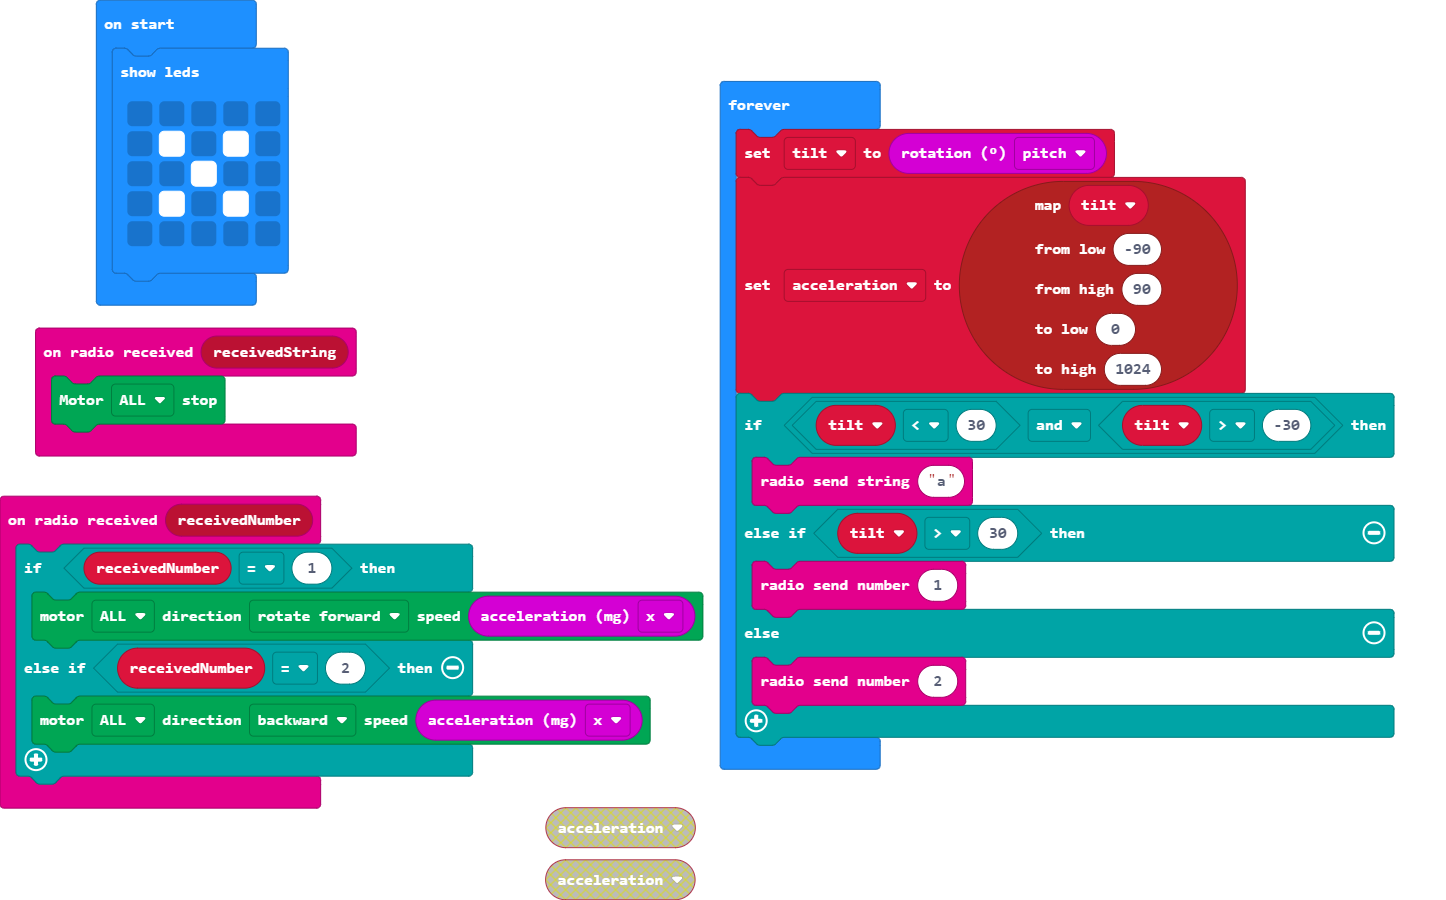
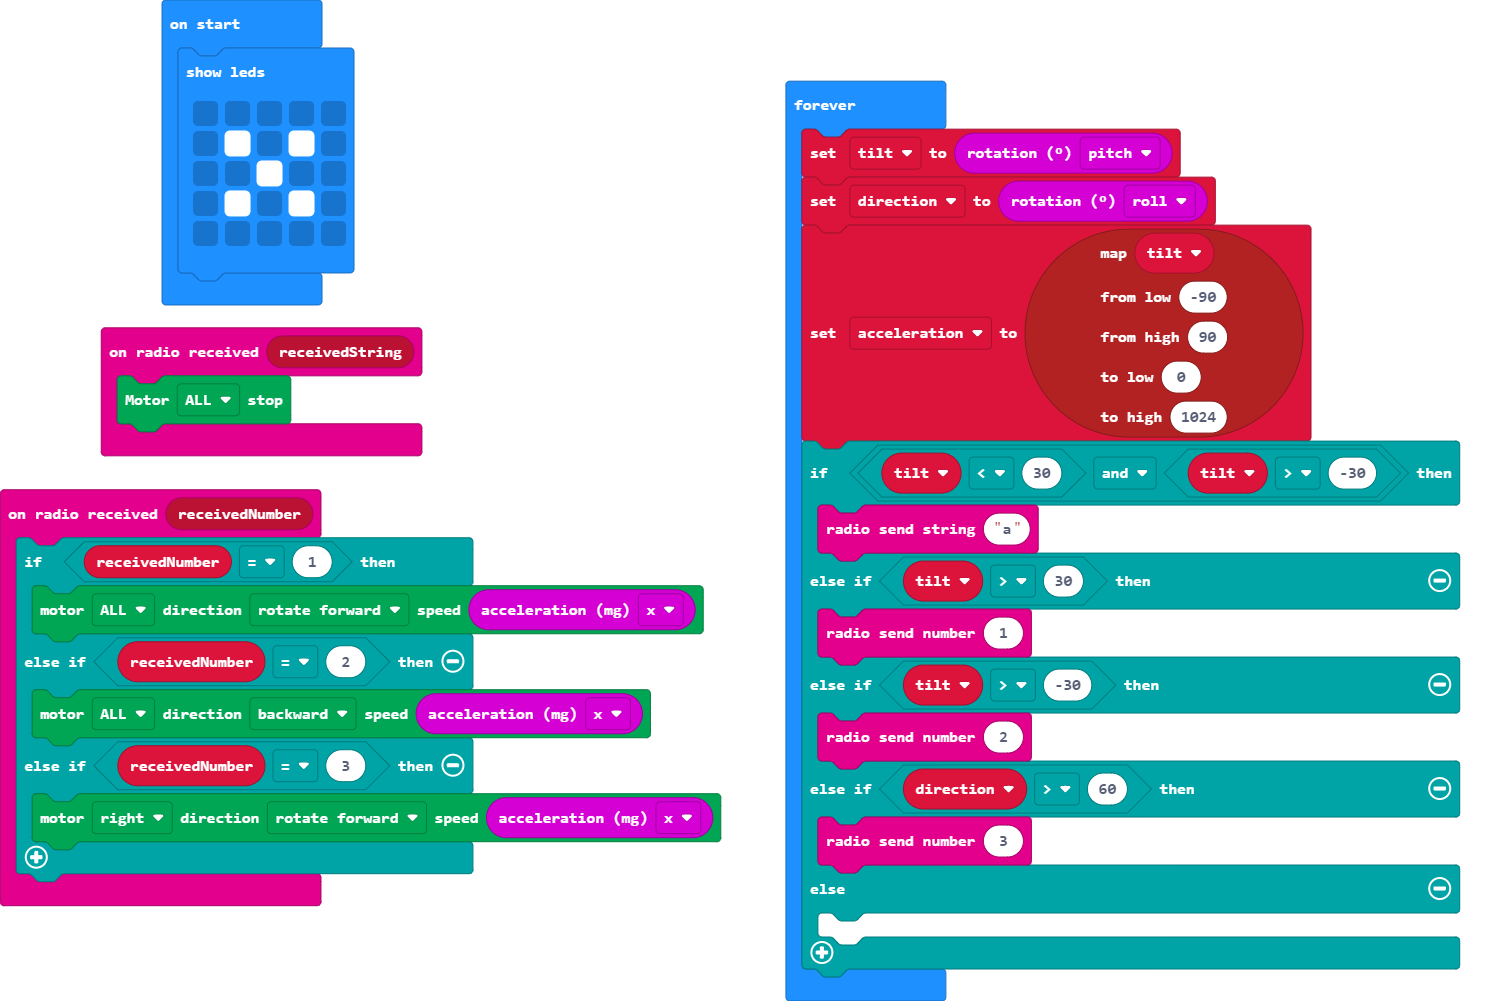
Update main.blocks, main.ts

diff --git a/main.ts b/main.ts
@@ -3,12 +3,15 @@ radio.onReceivedNumber(function (receivedNumber) {
         DFRobotMaqueenPlus.mototRun(Motors.ALL, Dir.CW, input.acceleration(Dimension.X))
     } else if (receivedNumber == 2) {
         DFRobotMaqueenPlus.mototRun(Motors.ALL, Dir.CCW, input.acceleration(Dimension.X))
+    } else if (receivedNumber == 3) {
+        DFRobotMaqueenPlus.mototRun(Motors.M2, Dir.CW, input.acceleration(Dimension.X))
     }
 })
 radio.onReceivedString(function (receivedString) {
     DFRobotMaqueenPlus.mototStop(Motors.ALL)
 })
 let acceleration = 0
+let direction = 0
 let tilt = 0
 basic.showLeds(`
     . . . . .
@@ -19,6 +22,7 @@ basic.showLeds(`
     `)
 basic.forever(function () {
     tilt = input.rotation(Rotation.Pitch)
+    direction = input.rotation(Rotation.Roll)
     acceleration = pins.map(
     tilt,
     -90,
@@ -30,7 +34,11 @@ basic.forever(function () {
         radio.sendString("a")
     } else if (tilt > 30) {
         radio.sendNumber(1)
-    } else {
+    } else if (tilt > -30) {
         radio.sendNumber(2)
+    } else if (direction > 60) {
+        radio.sendNumber(3)
+    } else {
+    	
     }
 })
